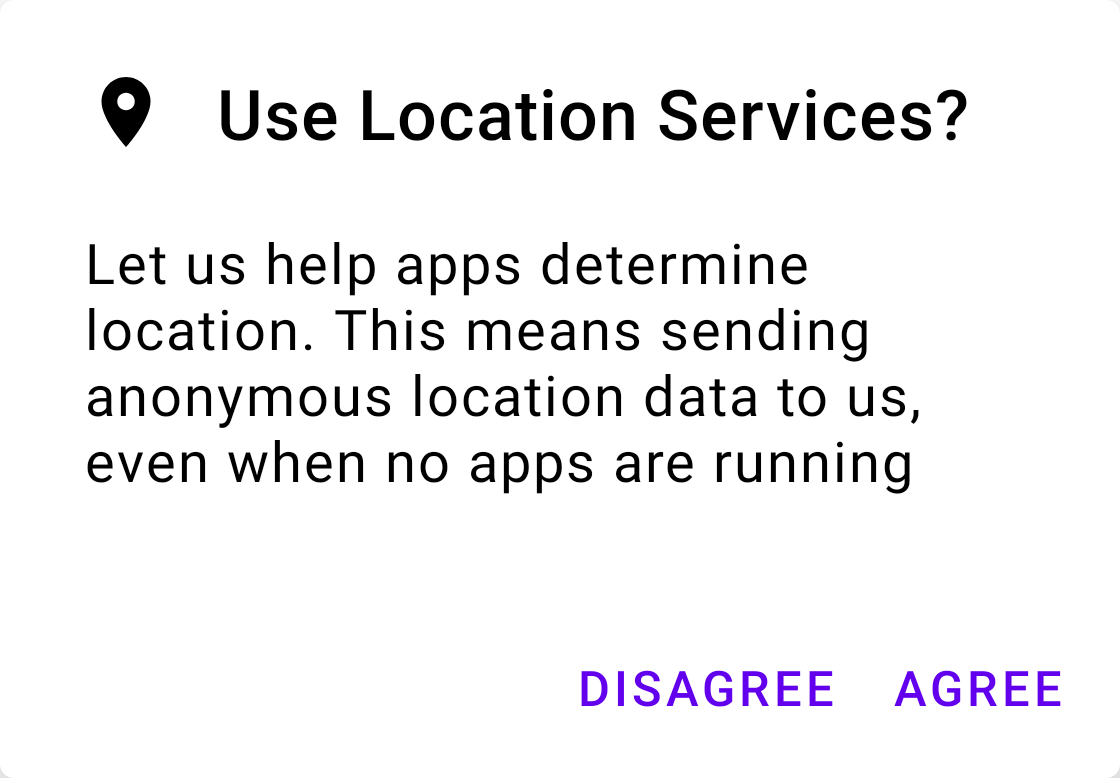
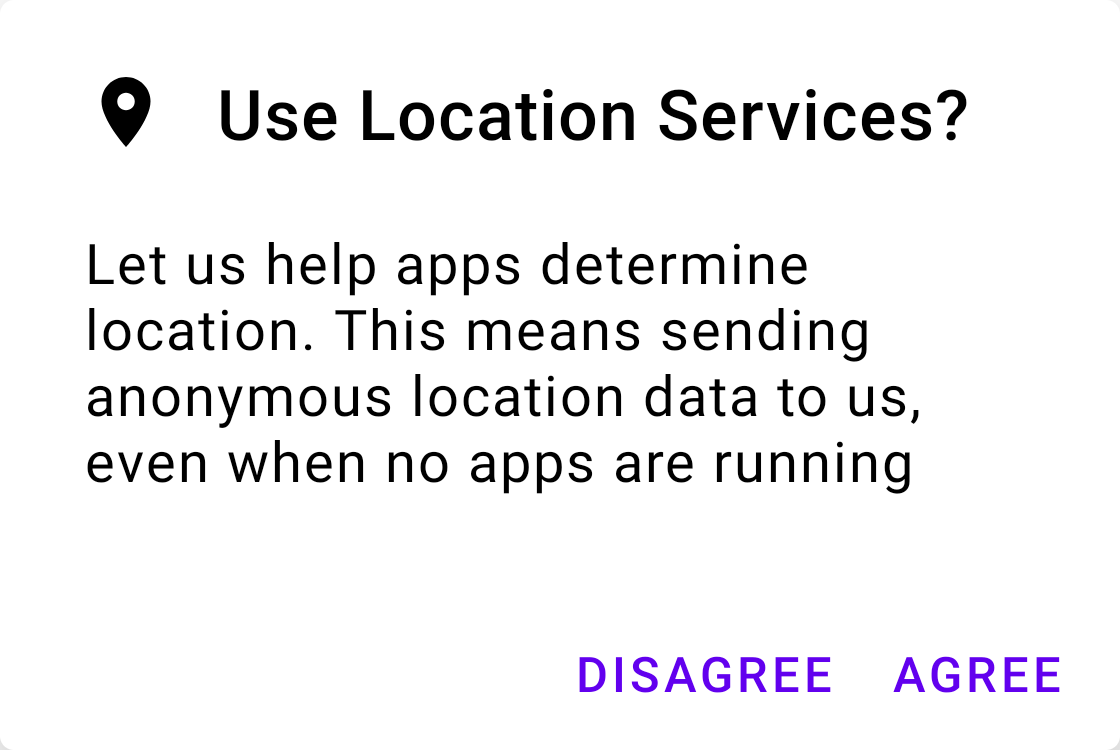
Add wrapContentHeight on dialog surface to allow for height changes

diff --git a/core/src/main/java/com/vanpra/composematerialdialogs/MaterialDialog.kt b/core/src/main/java/com/vanpra/composematerialdialogs/MaterialDialog.kt
@@ -1,11 +1,14 @@
 package com.vanpra.composematerialdialogs
 
+import androidx.compose.animation.animateContentSize
 import androidx.compose.foundation.BorderStroke
+import androidx.compose.foundation.background
 import androidx.compose.foundation.layout.BoxWithConstraints
 import androidx.compose.foundation.layout.Column
 import androidx.compose.foundation.layout.fillMaxWidth
 import androidx.compose.foundation.layout.padding
 import androidx.compose.foundation.layout.sizeIn
+import androidx.compose.foundation.layout.wrapContentHeight
 import androidx.compose.material.LocalElevationOverlay
 import androidx.compose.material.MaterialTheme
 import androidx.compose.material.Surface
@@ -207,6 +210,7 @@ class MaterialDialog(
                             .sizeIn(maxHeight = maxHeight, maxWidth = 560.dp)
                             .padding(horizontal = padding)
                             .clipToBounds()
+                            .wrapContentHeight()
                             .testTag("dialog"),
                         shape = shape,
                         color = backgroundColor,
@@ -221,7 +225,7 @@ class MaterialDialog(
                                     dialog = this@MaterialDialog,
                                     content = buttons
                                 )
-                                Column(Modifier.layoutId("content"), content = { content() })
+                                Column(Modifier.layoutId("content")) { content() }
                             }
                         ) { measurables, constraints ->
                             val buttonsHeight =

diff --git a/core/src/main/java/com/vanpra/composematerialdialogs/MaterialDialogLists.kt b/core/src/main/java/com/vanpra/composematerialdialogs/MaterialDialogLists.kt
@@ -19,7 +19,6 @@ import androidx.compose.material.MaterialTheme
 import androidx.compose.material.RadioButton
 import androidx.compose.material.Text
 import androidx.compose.runtime.Composable
-import androidx.compose.runtime.DisposableEffect
 import androidx.compose.runtime.getValue
 import androidx.compose.runtime.mutableStateOf
 import androidx.compose.runtime.remember
@@ -182,20 +181,13 @@ fun MaterialDialog.listItemsSingleChoice(
 
     if (waitForPositiveButton) {
         DialogCallback { onChoiceChange(selectedItem!!) }
-    } else {
-        DisposableEffect(selectedItem) {
-            if (selectedItem != null) {
-                onChoiceChange(selectedItem!!)
-            }
-            onDispose { }
-        }
     }
 
     val onSelect = { index: Int ->
         if (index !in disabledIndices) {
             setPositiveEnabled(positiveEnabledIndex, true)
-
             selectedItem = index
+
             if (!waitForPositiveButton) {
                 onChoiceChange(selectedItem!!)
             }
@@ -206,9 +198,7 @@ fun MaterialDialog.listItemsSingleChoice(
     listItems(
         list = list,
         closeOnClick = false,
-        onClick = { index, _ ->
-            onSelect(index)
-        },
+        onClick = { index, _ -> onSelect(index) },
         isEnabled = isEnabled
     ) { index, item ->
         val enabled = remember(disabledIndices) { index !in disabledIndices }
